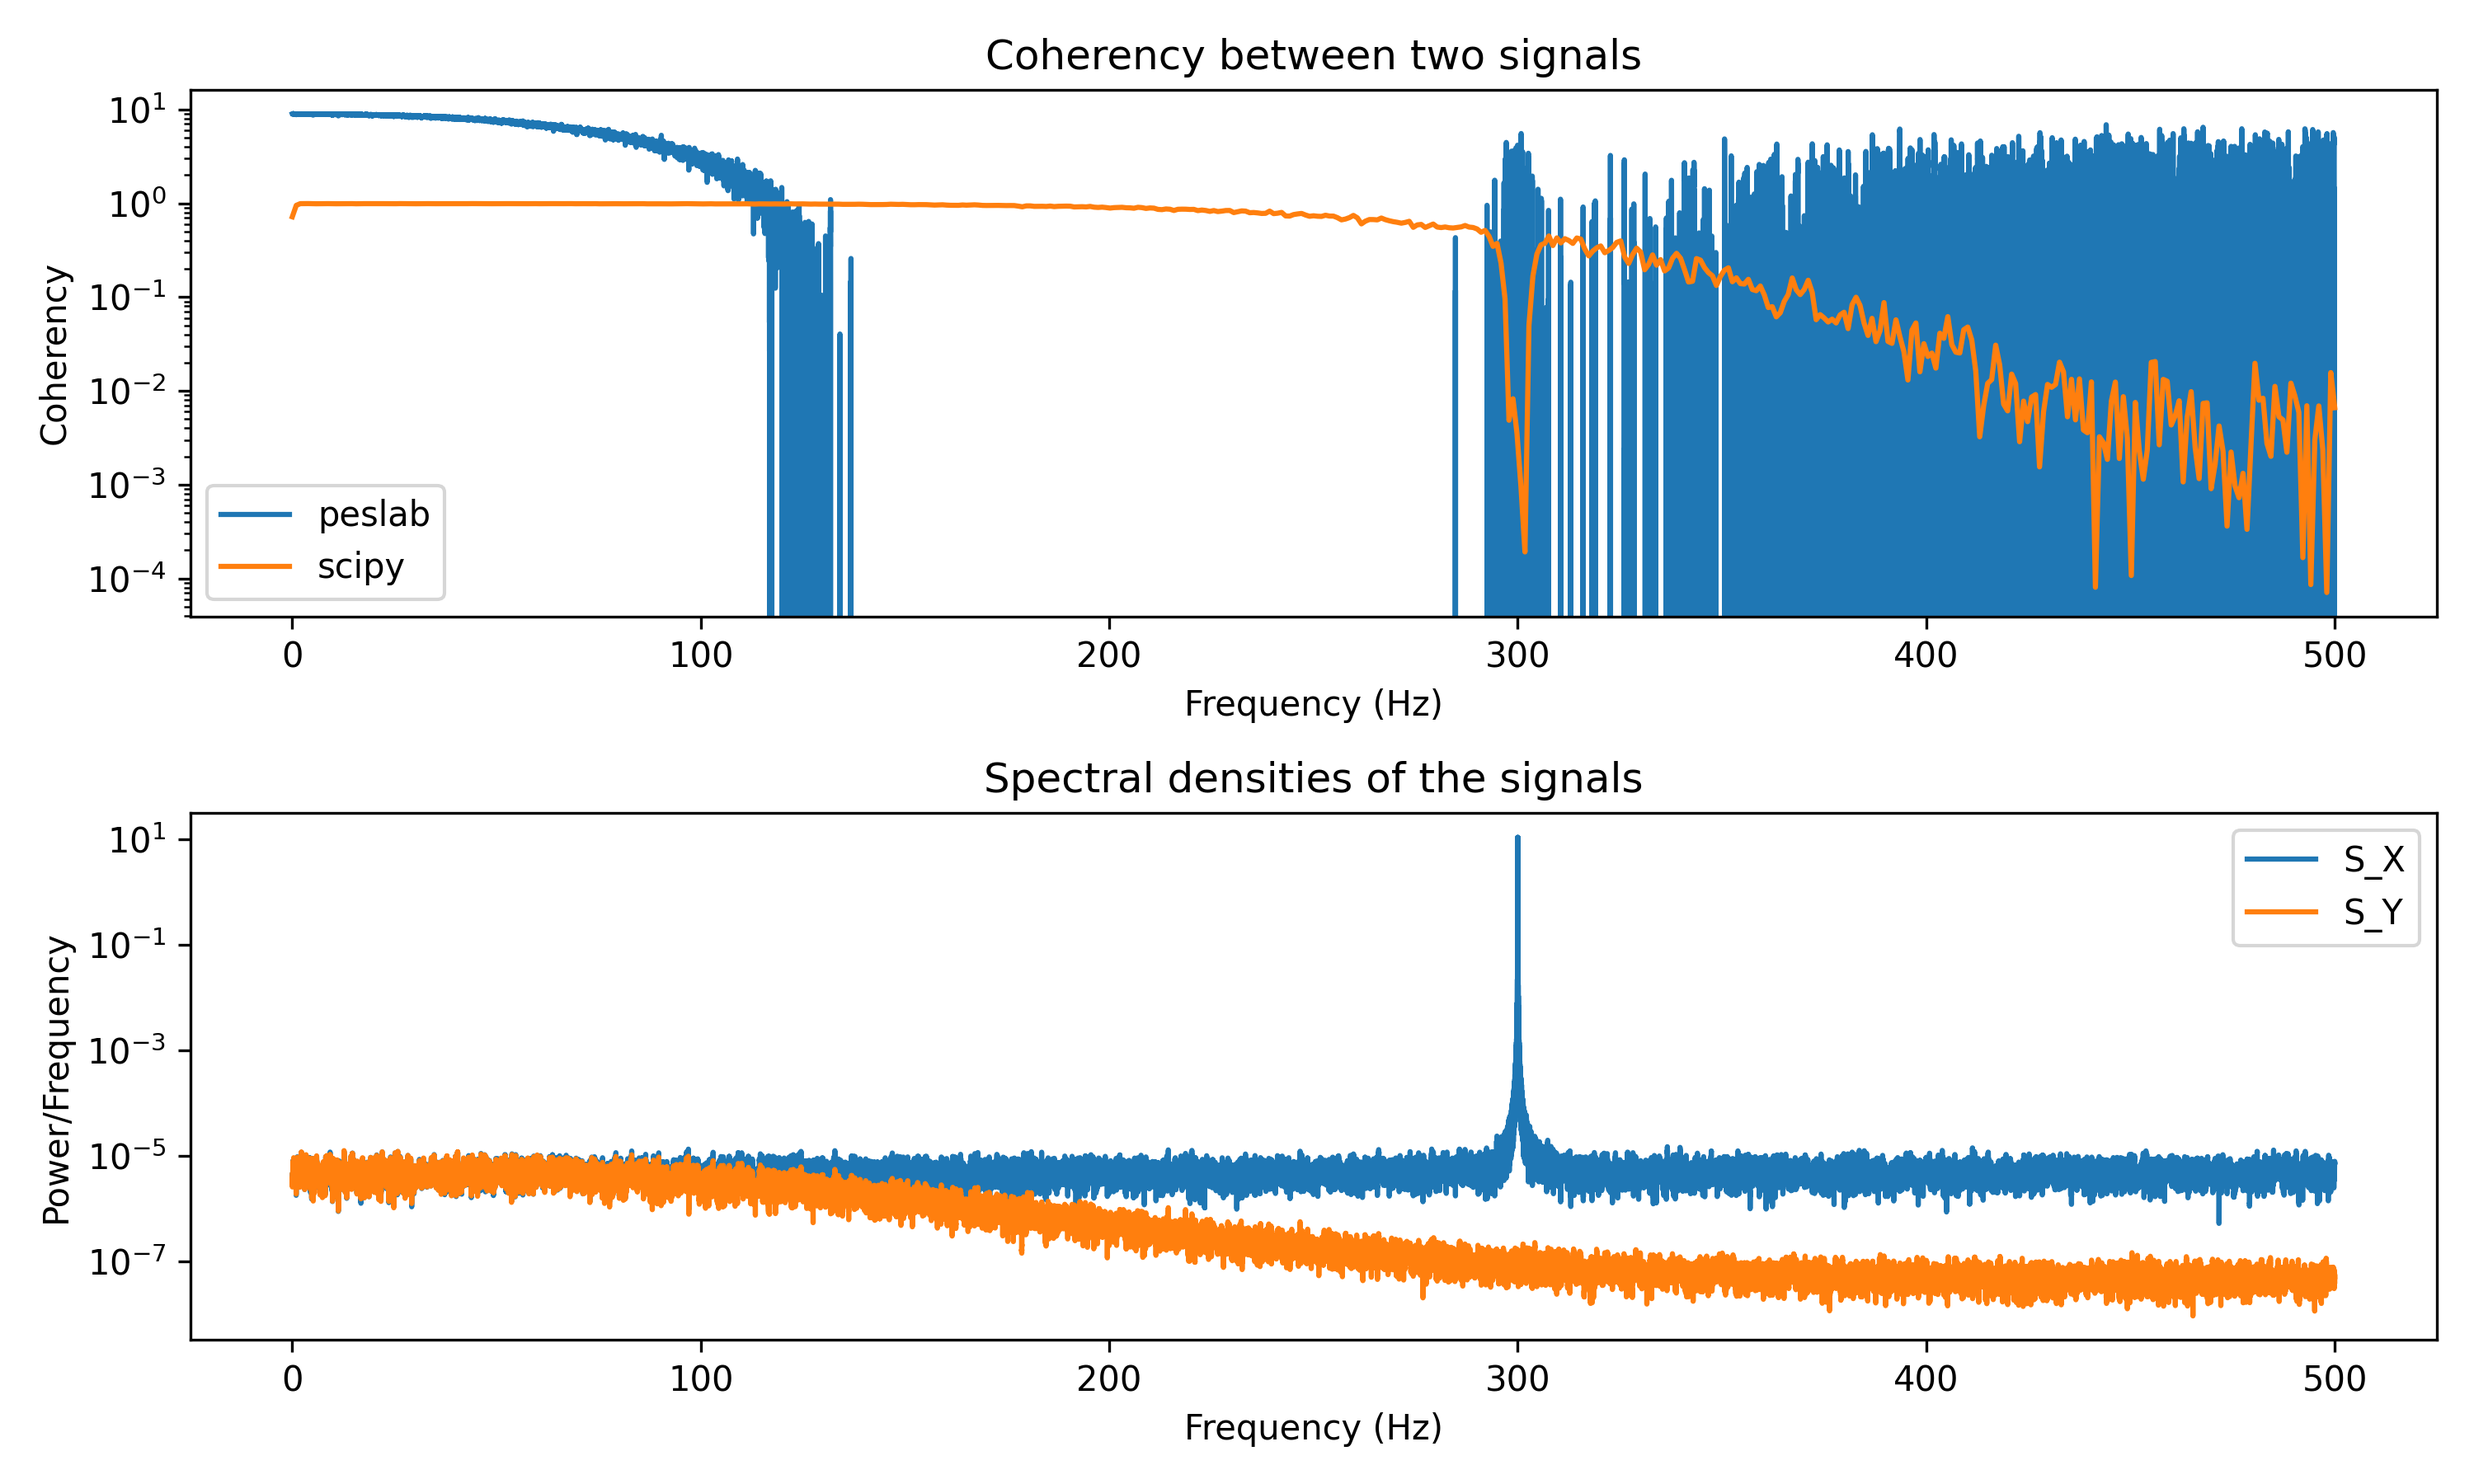
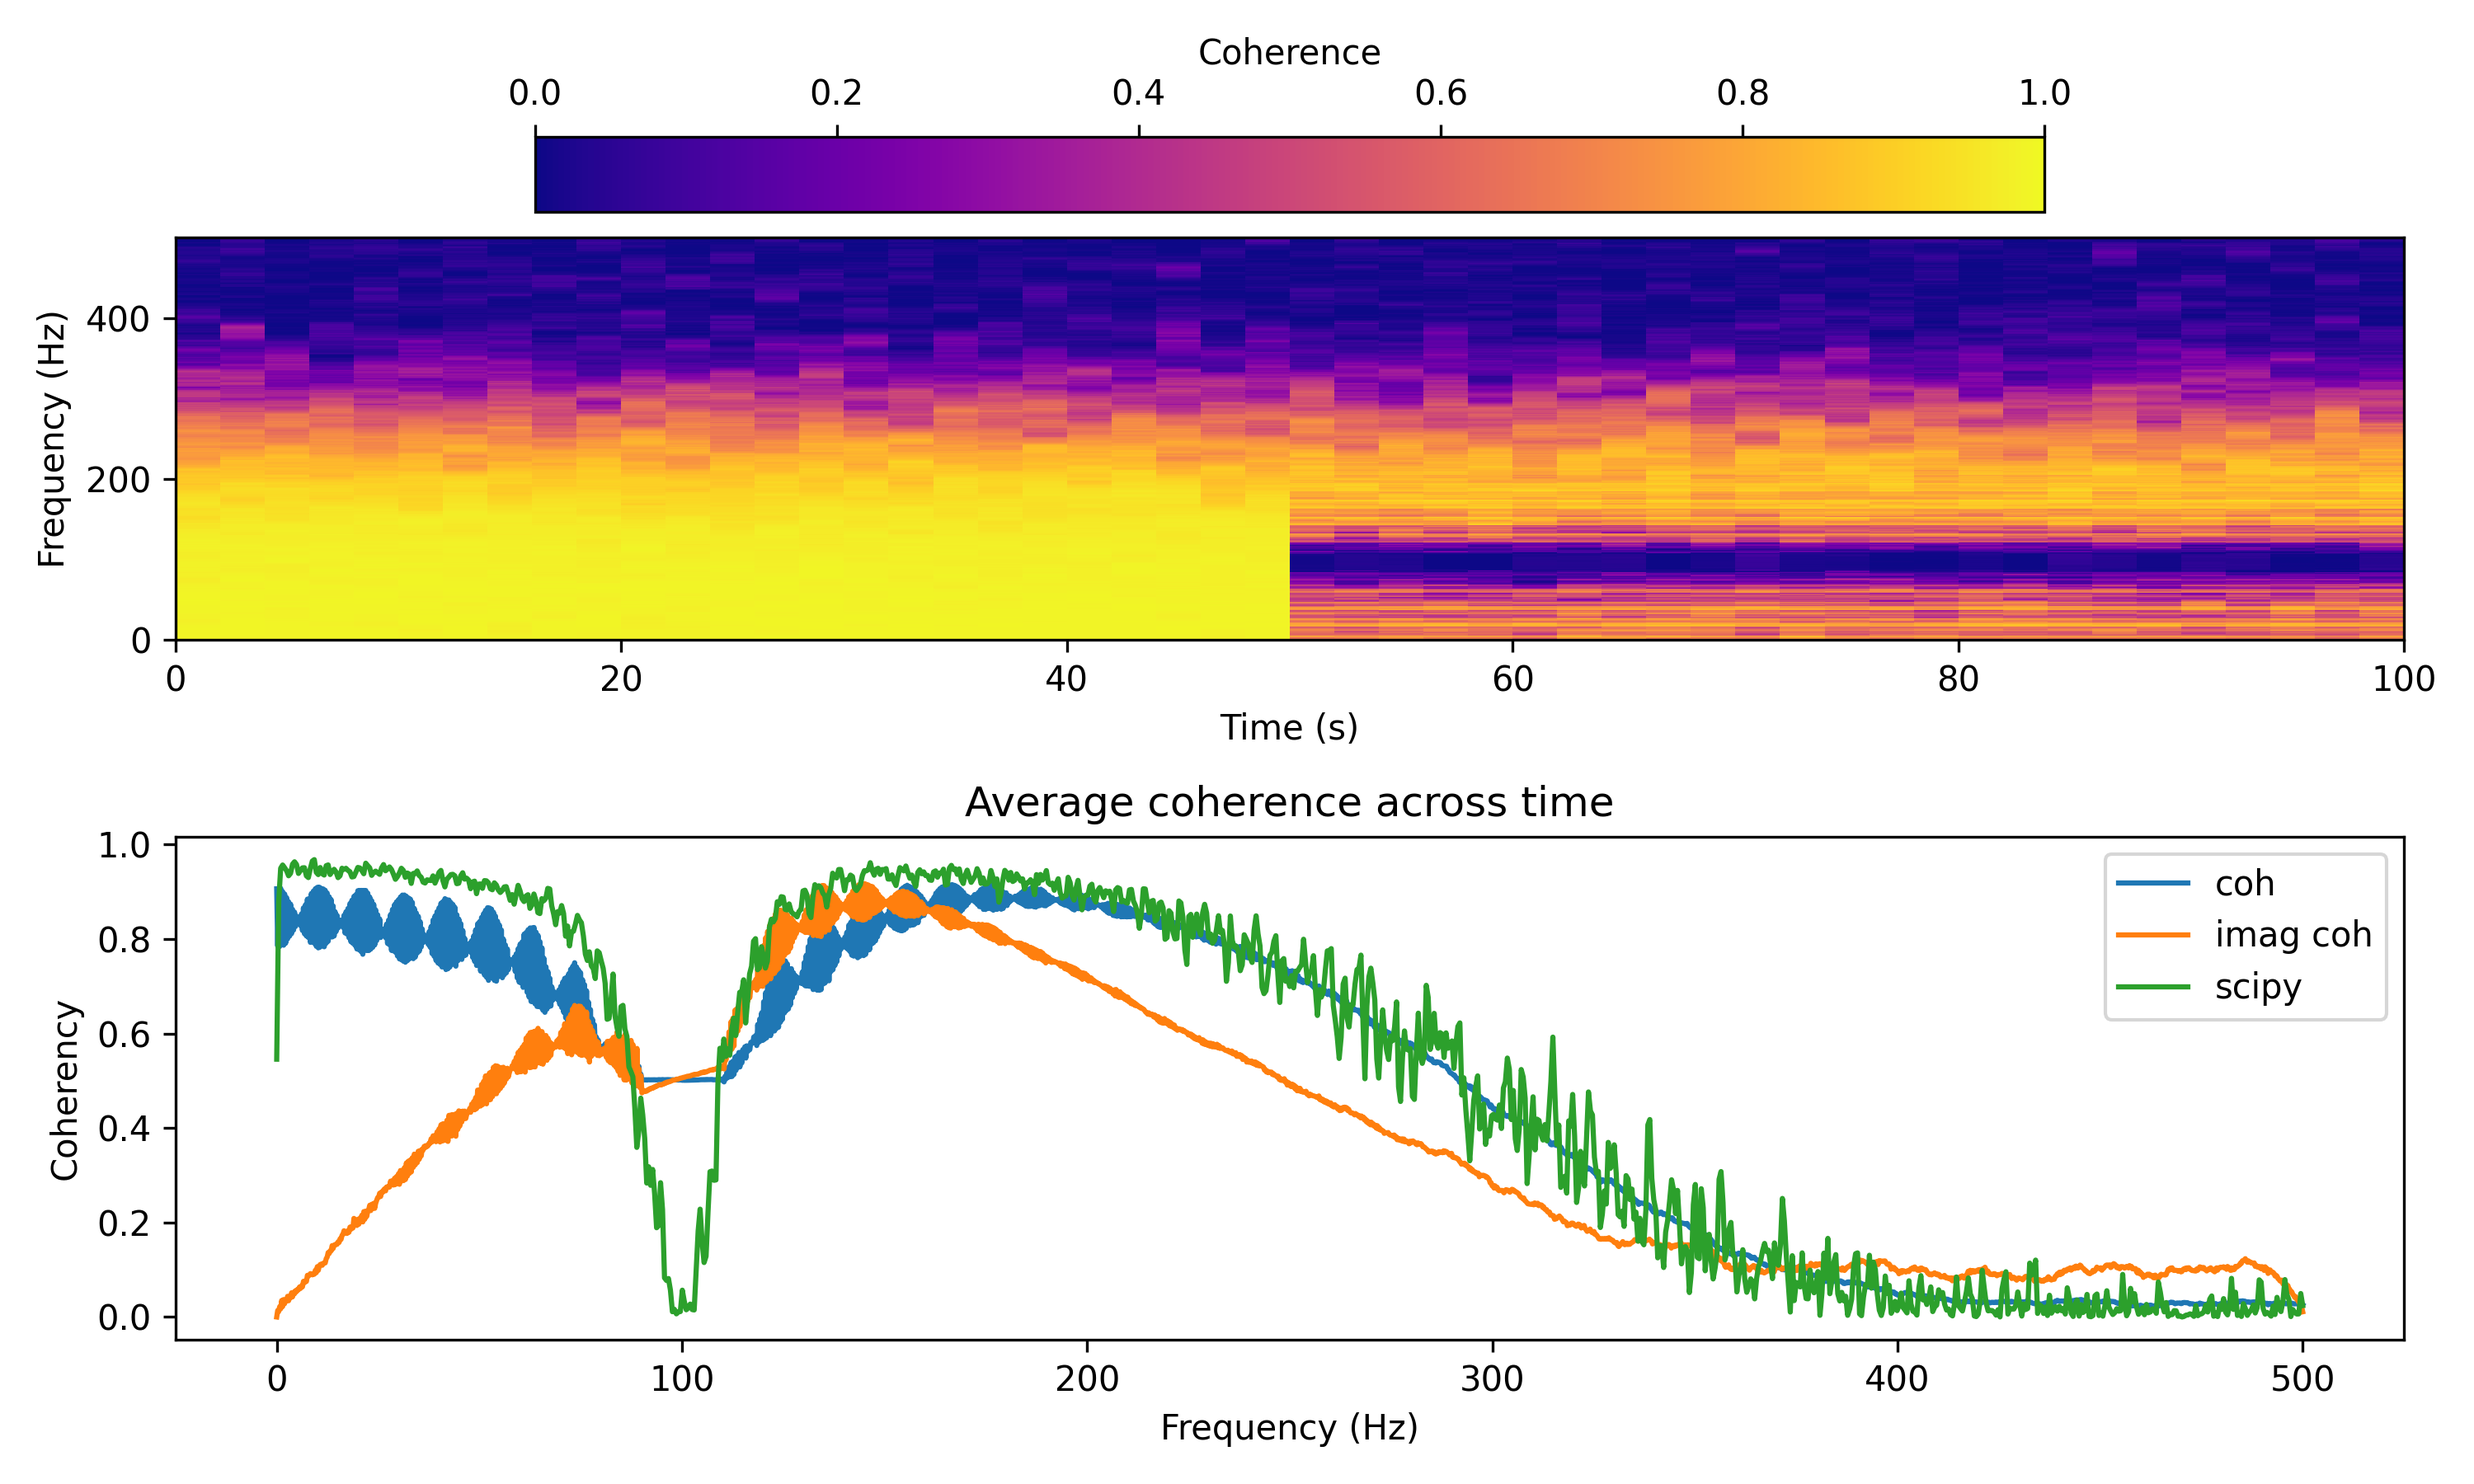
fix tests and example

diff --git a/aopy/analysis/base.py b/aopy/analysis/base.py
@@ -1229,7 +1229,7 @@ def interp_nans(x):
 def calc_mt_coh(data, ch, n, p, k, fs, step, fk=None, pad=2, ref=False, imaginary=False, 
                 return_error=False, pval=0.05, dtype='float64', workers=None):
     '''
-    Computes moving window time-frequency coherence across all channels.
+    Computes moving window time-frequency coherence across selected channels.
     This is based on pesaran lab code, but modified.
     
     Given analytical signals Xk1 and Xk2, coherence is computed as:
@@ -1237,9 +1237,9 @@ def calc_mt_coh(data, ch, n, p, k, fs, step, fk=None, pad=2, ref=False, imaginar
     .. code-block:: python
     
         # Compute power and cross-spectral power
-        S1 = np.sum(Xk1*Xk1.conj(), axis=1) # sum across tapers and trials
-        S2 = np.sum(Xk2*Xk2.conj(), axis=1) # sum across tapers and trials 
-        S12 = np.sum(Xk1*Xk2.conj(), axis=1) # sum across tapers and trials
+        S1 = np.sum(Xk*Xk.conj(), axis=1) # sum across tapers and trials
+        S2 = np.sum(Yk*Yk.conj(), axis=1) # sum across tapers and trials 
+        S12 = np.sum(Xk*Yk.conj(), axis=1) # sum across tapers and trials
     
         # Coherence
         coh = np.abs(S12/np.sqrt(S1*S2))**2
@@ -1248,9 +1248,7 @@ def calc_mt_coh(data, ch, n, p, k, fs, step, fk=None, pad=2, ref=False, imaginar
         coh = np.abs(np.imag(S12/np.sqrt(S1*S2)))
 
     Args:
-        data ((nt,nch,ntr) array): time series array
-        ch ((ch1, ch2) tuple): indices into the second dimension of data indicating the 
-            two channels for which to compute coherency.
+        data ((nt,nch,ntr) array): evoked potential across all channels and trials
         n (float): window length in seconds
         p (float): standardized half bandwidth in hz
         k (int): number of DPSS tapers to use
@@ -1269,7 +1267,7 @@ def calc_mt_coh(data, ch, n, p, k, fs, step, fk=None, pad=2, ref=False, imaginar
             https://iopscience.iop.org/article/10.1088/1741-2552/abce3c
             Default is False.
         imaginary (bool, optional): if True, compute imaginary coherence.
-        dtype (str): dtype of the output. Default 'float64'
+        dtype (str, optional): dtype of the output. Default 'float64'
         workers (int, optional): Number of workers argument to pass to scipy.fft.fft. 
             Default None. 
                        
@@ -1278,24 +1276,98 @@ def calc_mt_coh(data, ch, n, p, k, fs, step, fk=None, pad=2, ref=False, imaginar
             | **f (n_freq):** frequency axis
             | **t (n_time):** time axis
             | **coh (n_freq,n_time):** magnitude squared coherence or imaginary coherence (0 <= coh <= 1)
+
+    See also: 
+        :func:`~aopy.analysis.calc_mt_tfr`
+
+    Examples:
+
+        .. code-block:: python
+
+            fs = 1000
+            N = 1e5
+            T = N/fs
+            amp = 20
+            freq = 100.0
+            noise_power = 0.001 * fs / 2
+            time = np.arange(N) / fs
+
+        Generate two test signals with common low-frequency signals, except at a given freq (100 Hz)
+
+        .. code-block:: python
+
+            rng = np.random.default_rng(seed=0)
+            signal1 = rng.normal(scale=np.sqrt(noise_power), size=time.shape)
+
+            b, a = scipy.signal.butter(2, 0.25, 'low')
+            signal2 = scipy.signal.lfilter(b, a, signal1)
+            signal2 += rng.normal(scale=0.1*np.sqrt(noise_power), size=time.shape)
+
+            signal1[time > T/2] += amp*np.sin(2*np.pi*freq*time[time > T/2])
+
+        Calculate coherence, imaginary coherence, and compared to `scipy.signal.coherence()`
+
+        .. code-block:: python
+
+            n = 2
+            w = 10
+            n, p, k = aopy.precondition.convert_taper_parameters(n, w)
+            fk = fs / 2  # Maximum frequency of interest
+            step = n # no overlap
+            signal_combined = np.stack((signal1, signal2), axis=1)
+
+            f, t, coh = aopy.analysis.calc_mt_coh(signal_combined, [0,1], n, p, k, fs, step, fk=fk,
+                                                                ref=False)
+            f, t, coh_im = aopy.analysis.calc_mt_coh(signal_combined, [0,1], n, p, k, fs, step, fk=fk,
+                                                                ref=False, imaginary=True)
+            f_scipy, coh_scipy = scipy.signal.coherence(signal1, signal2, fs=fs, nperseg=2048, noverlap=0, axis=0)
+
+        Plot coherence
+
+        .. code-block:: python
+        
+            # Plot the coherence over time
+            plt.figure(figsize=(10, 6))
+            plt.subplot(2, 1, 1)
+            im = aopy.visualization.plot_tfr(coh, t, f)
+            plt.colorbar(im, orientation='horizontal', location='top', label='Coherence')
+            im.set_clim(0,1)
+
+            # Plot the average coherence across windows
+            plt.subplot(2, 1, 2)
+            plt.plot(f, np.mean(coh, axis=1))
+            plt.plot(f, np.mean(coh_im, axis=1))
+            plt.plot(f_scipy, coh_scipy)
+            plt.title('Average coherence across time')
+            plt.xlabel('Frequency (Hz)')
+            plt.ylabel('Coherency')
+            plt.legend(['coh', 'imag coh', 'scipy'])
+
+        .. image:: _images/coherency.png
     '''
     if data.ndim == 1:
-        data = np.reshape(data,(-1,1))
+        data = data[:,np.newaxis,np.newaxis]
+    elif data.ndim == 2:
+        data = data[:,:,np.newaxis]
     if data.shape[1] == 1:
         ref = False
     if fk == None:
         fk = fs/2
 
-    nt,nch,ntr = data.shape
+    nt,_,ntr = data.shape
     fk = np.array([0,fk])    
     win_size = int(n*fs)
     dn = int(np.floor(step*fs))
     nf = np.max([256,pad*2**utils.nextpow2(win_size+1)])
     nfk = np.floor(fk/fs*nf)
-    nwin = int(np.floor((nt-win_size)/dn))
+    nwin = 1 + int(np.floor((nt-win_size)/dn))
     f = np.linspace(fk[0],fk[1],int(nfk[1]-nfk[0]))
+
+    assert nwin > 0, "Not enough data for the given `n` and `step`"
+   
     tapers, _ = precondition.dpsschk(win_size, p, k)
 
+    # For now we only allow two channel. In the future we could expand to multiple pairs of channels
     ch1 = ch[0]
     ch2 = ch[1]
         
@@ -1334,45 +1406,7 @@ def calc_mt_coh(data, ch, n, p, k, fs, step, fk=None, pad=2, ref=False, imaginar
     coh = coh.T
     t = np.arange(nwin)*step + n/2 # Center of each window is time axis
     
-    if return_error:
-        jcoh, jXlsp, jYlsp = _calculate_jacobian(Xk1, Xk2, nch * k)
-        lsigXY = np.std(jcoh, axis=0) * np.sqrt(nt - 1)
-        crit = stats.t.ppf(1 - pval / 2, jcoh.shape[0] - 1)
-        coh_err = np.tanh(np.arctanh(np.abs(coh)) + crit * lsigXY)
-
-        return f, t, coh, coh_err
-    else:
-        return f, t, coh
-
-
-def _calculate_jacobian(Xk, Yk, n):
-    '''
-    Helper function for coherence jacobian
-
-    Args:
-        Xk (_type_): _description_
-        Yk (_type_): _description_
-        n (_type_): _description_
-
-    Returns:
-        _type_: _description_
-    '''
-    jcoh, jXlsp, jYlsp = np.zeros([n, Xk.shape[1]]), np.zeros([n, Xk.shape[1]]), np.zeros([n, Xk.shape[1]])
-    for ik in range(n):
-        indices = np.setdiff1d(np.arange(n), ik)
-        Xj = Xk[indices, :]
-        Yj = Yk[indices, :]
-
-        tmpx = np.mean(Xj * np.conj(Xj), axis=0) / (n - 1)
-        tmpy = np.mean(Yj * np.conj(Yj), axis=0) / (n - 1)
-
-        jcohTemp = np.sum(Xj * np.conj(Yj), axis=0) / (n - 1)
-        jcohTemp1 = jcohTemp / np.sqrt(tmpx * tmpy)
-        jcoh[ik, :] = np.arctanh(np.abs(jcohTemp1))
-        jXlsp[ik, :] = np.log(tmpx.real)
-        jYlsp[ik, :] = np.log(tmpy.real)
-    
-    return jcoh, jXlsp, jYlsp
+    return f, t, coh
 
 def calc_corr2_map(data1, data2, knlsz=15, align_maps=False):
     '''

diff --git a/tests/test_analysis.py b/tests/test_analysis.py
@@ -1198,11 +1198,11 @@ class SpectrumTests(unittest.TestCase):
         savefig(docs_dir,filename)
         
     def test_coherency(self):
-
         fs = 1000
         N = 1e5
+        T = N/fs
         amp = 20
-        freq = 300.0
+        freq = 100.0
         noise_power = 0.001 * fs / 2
         time = np.arange(N) / fs
 
@@ -1213,40 +1213,42 @@ class SpectrumTests(unittest.TestCase):
         signal2 = scipy.signal.lfilter(b, a, signal1)
         signal2 += rng.normal(scale=0.1*np.sqrt(noise_power), size=time.shape)
 
-        signal1 += amp*np.sin(2*np.pi*freq*time)
+        signal1[time > T/2] += amp*np.sin(2*np.pi*freq*time[time > T/2])
 
-        # Calculate coherency
-        p = 5  # Time-bandwidth product
-        k = 9  # Number of tapers
-        pool_trials = False  # Do not pool trials
-        errorchk = False  # Disable error checking for simplicity
+        # Calculate mt coh
+        n = 2
+        w = 10
+        n, p, k = aopy.precondition.convert_taper_parameters(n, w)
         fk = fs / 2  # Maximum frequency of interest
+        step = n # no overlap
+        signal_combined = np.stack((signal1, signal2), axis=1)
 
-        coh, f, S_X, S_Y, _, _, _ = aopy.analysis.calculate_coherency(
-            signal1, signal2, fs, p, k, fk=fk, pool_trials=pool_trials, errorchk=errorchk)
+        f, t, coh = aopy.analysis.calc_mt_coh(signal_combined, [0,1], n, p, k, fs, step, fk=fk,
+                                                              ref=False)
+        f, t, coh_im = aopy.analysis.calc_mt_coh(signal_combined, [0,1], n, p, k, fs, step, fk=fk,
+                                                              ref=False, imaginary=True)
+        
+        # Calculate coherency from scipy
+        f_scipy, coh_scipy = scipy.signal.coherence(signal1, signal2, fs=fs, nperseg=2048, noverlap=0, axis=0)
 
-        f_scipy, coh_scipy = scipy.signal.coherence(signal1, signal2, fs=fs, nperseg=1024, axis=0)
-
-        # Plot the coherency
+        # Plot the coherence over time
         plt.figure(figsize=(10, 6))
         plt.subplot(2, 1, 1)
-        plt.semilogy(f, coh)
-        plt.semilogy(f_scipy, coh_scipy)
-        plt.title('Coherency between two signals')
+        im = aopy.visualization.plot_tfr(coh, t, f)
+        plt.colorbar(im, orientation='horizontal', location='top', label='Coherence')
+        im.set_clim(0,1)
+
+        # Plot the average coherence across windows
+        plt.subplot(2, 1, 2)
+        plt.plot(f, np.mean(coh, axis=1))
+        plt.plot(f, np.mean(coh_im, axis=1))
+        plt.plot(f_scipy, coh_scipy)
+        plt.title('Average coherence across time')
         plt.xlabel('Frequency (Hz)')
         plt.ylabel('Coherency')
-        plt.legend(['peslab', 'scipy'])
-
-        plt.subplot(2, 1, 2)
-        plt.semilogy(f, S_X, label='S_X')
-        plt.semilogy(f, S_Y, label='S_Y')
-        plt.title('Spectral densities of the signals')
-        plt.xlabel('Frequency (Hz)')
-        plt.ylabel('Power/Frequency')
-        plt.legend()
+        plt.legend(['coh', 'imag coh', 'scipy'])
 
         plt.tight_layout()
-        
         figname = 'coherency.png'
         aopy.visualization.savefig(docs_dir, figname)
 
